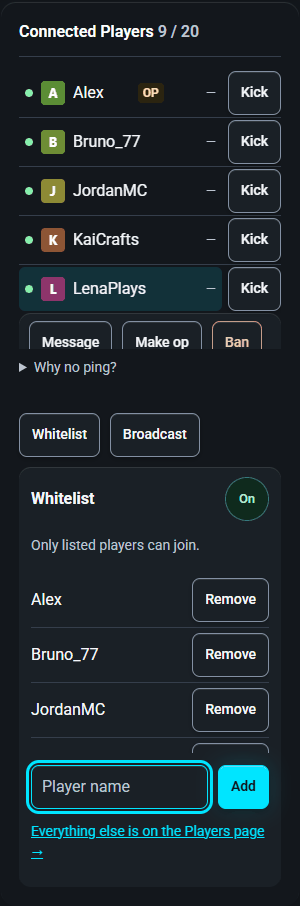
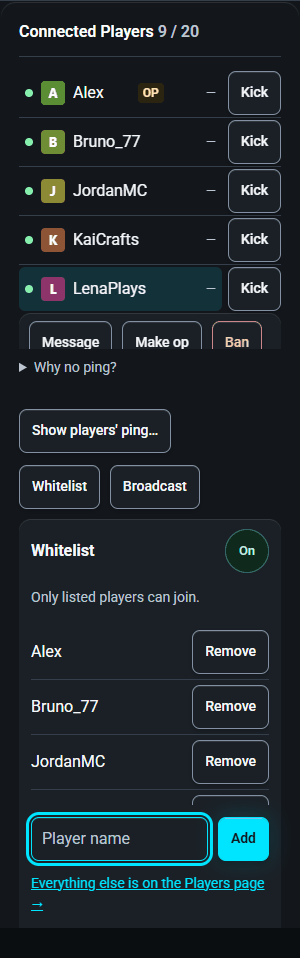
docs: manual, help, translations, changelog and tests for players' ping
Manual (Connected Players, Mods), Help, 16 new strings in the 9 catalogs (the
reasons with {version} and {loader} now translate: the page matches them back to
their text), 0.31.0 changelog, TODO 47 ticked, real-world tests 1056-1060, the
demo shows ping numbers on a Fabric example server once Show players' ping… is
on, a retaken connected-players picture. The old "never adds a mod or plugin"
reason is retired: a roster without a reason says the vanilla one.

diff --git a/src/craft_conductor/webui/app.js b/src/craft_conductor/webui/app.js
@@ -2202,6 +2202,20 @@ const OP_WORDS = { 1: "can ignore spawn protection", 2: "can use cheat commands 
   3: "can also kick, ban and op players", 4: "can use every command, including /stop" };
 const PING_MARK = { good: "●", fair: "◐", poor: "▲" };  // (a different shape for each, so colour is never the only sign)
 const PING_WORDS = { good: "good connection", fair: "fair connection", poor: "poor connection" };
+// The reasons the server fills in ("needs Minecraft 1.17", "doesn't run on neoforge") are matched back to
+// their text with the {placeholder}, so they translate; every other reason is its own text.
+const PING_REASONS = [
+  [/^Craft Conductor's ping helper needs Minecraft (\S+) or newer on this server type\.$/, "Craft Conductor's ping helper needs Minecraft {version} or newer on this server type.", "{version}"],
+  [/^Craft Conductor's ping helper doesn't run on (.+) yet\.$/, "Craft Conductor's ping helper doesn't run on {loader} yet.", "{loader}"],
+];
+function pingReason(text) {
+  for (const [re, key, slot] of PING_REASONS) {
+    const m = re.exec(text);
+    if (m) return t(key).replace(slot, () => m[1]);
+  }
+  return t(text);
+}
+
 function playersCard(con) {
   const viewer = !can("players.moderate");   // look only: the list, none of the buttons
   const canMessage = can("console.execute");   // (Message types a console command)
@@ -2308,7 +2322,7 @@ function playersCard(con) {
     row.ping.className = "ping " + (ms === null ? "none" : p.ping_state);
     if (ms === null) {
       const why = info && !info.ping.available ? info.ping.reason : "";
-      row.ping.title = t(why);
+      row.ping.title = pingReason(why);
       fill(row.ping, "—", h("span", { class: "sr-only" }, why ? t("Ping isn't available.") : t("Ping not read yet.")));
     } else {
       row.ping.title = t(PING_WORDS[p.ping_state]);
@@ -2350,7 +2364,7 @@ function playersCard(con) {
     empty.classList.toggle("hidden", !!names.length);
     const noPing = names.length && info && !info.ping.available;
     pingNote.classList.toggle("hidden", !noPing);
-    if (noPing) pingWhy.textContent = t(info.ping.reason);
+    if (noPing) pingWhy.textContent = pingReason(info.ping.reason);
     showPingSwitch();
     if (!names.length) selected = null;
   };
@@ -6272,6 +6286,7 @@ const HELP = [
     h("p", {}, "Press ", h("strong", {}, "Start"), " when you want to play. In Minecraft, choose Multiplayer → Add Server and use this computer's address."),
     screenshot("dashboard", "A running server's Dashboard: how busy it is, who's on, and the live console."),
     h("p", {}, "The Dashboard's Connected Players card lists who's on. Press a player for more actions, press Kick to remove them, and use Whitelist and Broadcast under the list to manage who may join and to send a message to everyone online."),
+    h("p", {}, "On Paper, Purpur, Fabric and Quilt servers, ", h("strong", {}, "Show players' ping…"), " on the card adds each player's ping: Craft Conductor puts its own small helper on the server at the next restart, and players install nothing."),
     h("p", {}, "Something not working? Press ", h("strong", {}, "🩺 Check my setup"), " on the server's Dashboard: it checks the usual causes ",
       "(Java, memory, disk space, the port, the firewall) and says what to do. ", h("strong", {}, "Test from the internet"), " there checks friends outside your home can connect."),
     screenshot("check-my-setup", "Check my setup: each check with what to do, and a button where Craft Conductor can fix it."),

diff --git a/site/demo/app/sim/routes-server.js b/site/demo/app/sim/routes-server.js
@@ -15,6 +15,15 @@
   // Turning the whitelist off on a server that can be reached from the internet asks first (since 0.29,
   // reach.py). A release from before has no such warning: there, as it did then, the whitelist just goes off.
   const whitelistGuarded = (s) => cat().hasReach() && sim.reachable(s);
+  // The Connected Players card's ping: numbers on a server that can run the helper and has Show players' ping…
+  // switched on (while it runs), else the reason and which button the card may offer.
+  const pingCard = (s) => {
+    const h = sim.pingHelper(s), on = !!s.settings.player_ping;
+    if (!h.ok) return { available: false, reason: h.reason, can_turn_on: false, on };
+    if (!on) return { available: false, reason: "Ping is off for this server.", can_turn_on: true, on: false };
+    return running(s) ? { available: true, reason: "", can_turn_on: false, on: true }
+      : { available: false, reason: "Ping shows after the next restart.", can_turn_on: false, on: true };
+  };
 
   // ------------------------------------------------------------- the Dashboard
   const resources = (s) => {
@@ -532,9 +541,11 @@
         const op = p.ops.find((o) => o.name === name);
         return { name, op: !!op, op_level: op ? op.level : null, ping_ms: null, ping_state: null };
       }), max: s.max_players, whitelist_enabled: p.whitelist_enabled,
-      ping: s.settings.player_ping
-        ? { available: false, reason: "Ping shows after the next restart.", can_turn_on: false, on: true }   // (the demo never restarts a helper in)
-        : { available: false, reason: "Ping is off for this server.", can_turn_on: true, on: false } };
+      ping: pingCard(s) };
+      if (out.ping.available) out.players.forEach((p) => {   // (the helper is "in" at once: the demo has no restart to wait for)
+        p.ping_ms = sim.pingOf(p.name, now());
+        p.ping_state = p.ping_ms < 100 ? "good" : p.ping_ms < 200 ? "fair" : "poor";
+      });
       if (r.q.whitelist === "1") out.whitelist = p.whitelist.slice().sort((a, b) => a.toLowerCase().localeCompare(b.toLowerCase()));
       return out;
     },

diff --git a/site/demo/app/sim/engine.js b/site/demo/app/sim/engine.js
@@ -51,6 +51,27 @@
   };
   sim.hasMod = (s, slug) => s.mods.some((m) => m.slug === slug);
 
+  // Craft Conductor Ping, the helper behind players' ping (pinghelper.py): which servers can run it, why not,
+  // and the file it would put in the mods (or plugins) folder. The reasons are the real ones, word for word.
+  const atLeast = (version, lowest) => {
+    const a = String(version).split(".").map(Number), b = lowest.split(".").map(Number);
+    for (let i = 0; i < Math.max(a.length, b.length); i++) { if ((a[i] || 0) !== (b[i] || 0)) return (a[i] || 0) > (b[i] || 0); }
+    return true;
+  };
+  sim.pingHelper = (s) => {
+    const lowest = { paper: "1.17", purpur: "1.17", fabric: "1.20.2", quilt: "1.20.2" }[s.loader];
+    if (lowest && atLeast(s.minecraft, lowest)) return { ok: true, reason: "", jar: `craft_conductor_ping-${s.loader === "paper" || s.loader === "purpur" ? "paper" : "fabric"}-1.0.0.jar` };
+    if (s.loader === "vanilla") return { ok: false, reason: "Minecraft doesn't share each player's ping without a mod or plugin, and plain Minecraft runs neither." };
+    if (!lowest && sim.catalog.runsMods(s.loader)) return { ok: false, reason: `Craft Conductor's ping helper doesn't run on ${s.loader} yet.` };
+    return { ok: false, reason: `Craft Conductor's ping helper needs Minecraft ${lowest} or newer on this server type.` };
+  };
+  // A made-up but steady ping for a player: the same name gives about the same number, drifting a little.
+  sim.pingOf = (name, t) => {
+    let h = 0;
+    for (const ch of name) h = (h * 31 + ch.charCodeAt(0)) % 997;
+    return Math.max(8, Math.round(28 + (h % 150) + Math.sin(t / 9 + h) * 6));
+  };
+
   // ------------------------------------------------------------- the two ways to start
   const FRIENDS = ["Alex", "Mia", "KaiCrafts", "Sam_Builds", "JordanMC", "Riley", "Noor", "LenaPlays", "Bruno_77"];
   sim.FRIENDS = FRIENDS;

diff --git a/site/demo/app/sim/routes-mods.js b/site/demo/app/sim/routes-mods.js
@@ -25,7 +25,8 @@
         dependency_of: keyOf(m), for_players: s.client.mods.includes(d.slug) ? d.slug : null })) })),
     players_mods: s.client.mods.slice(),
     held: Object.fromEntries(s.mods.filter((m) => m.pinned).map((m) => [keyOf(m), { version: m.pinned, number: m.version }])),
-    skipped: [], unmanaged: s.mods.filter((m) => m.manual).map((m) => m.filename), disabled: s.disabledJars || [], helper: null, known_conflicts: [],
+    skipped: [], unmanaged: s.mods.filter((m) => m.manual).map((m) => m.filename), disabled: s.disabledJars || [],
+    helper: s.settings.player_ping && sim.pingHelper(s).ok ? { name: "Craft Conductor Ping", filename: sim.pingHelper(s).jar } : null, known_conflicts: [],
     players_only: (s.playersOnly || []).slice(),
   });
   // Adding a mod: it needs a build for this server's Minecraft and server type, and the mods it

diff --git a/tests/test_website_demo_contract.py b/tests/test_website_demo_contract.py
@@ -216,3 +216,37 @@ def test_the_demo_survives_a_visit(catalog):
             assert not demo.unhandled, demo.unhandled
         finally:
             demo.close()
+
+
+@needs_node
+def test_the_demo_shows_players_ping_when_it_is_switched_on(catalog):
+    """A Fabric example server shows ping numbers once Show players' ping… is on (its reasons before, the
+    real texts); NeoForge says it doesn't run there yet; Manage Mods lists the helper."""
+    demo = Demo(catalog, "existing")
+    try:
+        sid = "family-survival"
+        card = demo.ask("GET", f"/api/servers/{sid}/players/online")[1]
+        assert card["players"] and card["ping"] == {"available": False, "reason": "Ping is off for this server.",
+                                                    "can_turn_on": True, "on": False}
+        assert demo.ask("GET", f"/api/servers/{sid}/mods")[1]["helper"] is None
+        assert demo.ask("POST", f"/api/servers/{sid}/settings", {"player_ping": True})[0] == 200
+        card = demo.ask("GET", f"/api/servers/{sid}/players/online", advance=3)[1]
+        assert card["ping"] == {"available": True, "reason": "", "can_turn_on": False, "on": True}
+        assert all(isinstance(p["ping_ms"], int) and p["ping_state"] in ("good", "fair", "poor") for p in card["players"])
+        assert demo.ask("GET", f"/api/servers/{sid}/mods")[1]["helper"] == {
+            "name": "Craft Conductor Ping", "filename": "craft_conductor_ping-fabric-1.0.0.jar"}
+        assert not demo.unhandled, demo.unhandled
+    finally:
+        demo.close()
+    demo = Demo(catalog, "new")   # (other server types give their reason and no button)
+    try:
+        for loader, why in (("vanilla", "Minecraft doesn't share each player's ping without a mod or plugin, and plain Minecraft runs neither."),
+                            ("neoforge", "Craft Conductor's ping helper doesn't run on neoforge yet.")):
+            s, r = demo.ask("POST", "/api/hub/create", {"loader": loader, "minecraft": "1.21.1", "motd": loader, "mods": [],
+                                                         "accept_eula": True, "port": 25565 if loader == "vanilla" else 25566})
+            assert s == 200, r
+            assert demo.ask("GET", f"/api/servers/{r['id']}/players/online", advance=10)[1]["ping"] == {
+                "available": False, "reason": why, "can_turn_on": False, "on": False}
+        assert not demo.unhandled, demo.unhandled
+    finally:
+        demo.close()

diff --git a/src/craft_conductor/players.py b/src/craft_conductor/players.py
@@ -22,6 +22,7 @@ from pathlib import Path
 from typing import Callable
 
 from .http import HttpClient, HttpError
+from .pinghelper import VANILLA_REASON   # (why there is no ping, when nothing says more: pinghelper.card gives the real reason)
 from .properties import read_properties, write_properties
 
 MOJANG_PROFILE = "https://api.mojang.com/users/profiles/minecraft"
@@ -87,10 +88,6 @@ class PlayerError(Exception):
 #: The most a broadcast may say (Minecraft's chat box takes 256 characters).
 MAX_BROADCAST = 256
 
-#: Why there is no ping to show, when nothing says more. No server type Craft Conductor runs shares each
-#: player's ping with the console on its own; the helper mod or plugin that does (pinghelper.py) is
-#: added only where the owner turned it on, and ``roster(why_no_ping=...)`` gives the real reason.
-NO_PING_REASON = "Minecraft doesn't share each player's ping with the server console, so Craft Conductor can't show it. (It never adds a mod or plugin only to measure it.)"  # (one piece: it is a key of the page's translations)
 GOOD_PING, FAIR_PING = 100, 200   # milliseconds: under 100 is good, under 200 fair, above poor
 
 
@@ -273,7 +270,7 @@ class Players:
         }
 
     def roster(self, online: set[str] | list[str], pings: dict[str, int] | None = None,
-               whitelist: bool = False, why_no_ping: str = NO_PING_REASON) -> dict:
+               whitelist: bool = False, why_no_ping: str = VANILLA_REASON) -> dict:
         """The Dashboard's Connected Players card: who is online, with only what is reliably known
         about each (operator, and at which level, from ops.json; ping when ``pings`` has a source),
         the player limit and whether the whitelist is on. Reads two small files and asks the

diff --git a/tests/test_players.py b/tests/test_players.py
@@ -2,8 +2,9 @@ import json
 
 import pytest
 
-from craft_conductor.players import (MAX_BROADCAST, MOJANG_PROFILE, NO_PING_REASON, PlayerError, Players, broadcast_text,
+from craft_conductor.players import (MAX_BROADCAST, MOJANG_PROFILE, PlayerError, Players, broadcast_text,
                                      offline_uuid, ping_state)
+from craft_conductor.pinghelper import VANILLA_REASON as NO_PING_REASON   # (what a roster says without a reason)
 
 
 

diff --git a/src/craft_conductor/webui/manual.md b/src/craft_conductor/webui/manual.md
@@ -190,7 +190,9 @@ The **Connected Players** card on the Dashboard is a compact way to look after w
 
 - **Press a row** to open the other actions: **Message** (a private message to that player; it types a console command, so only for those who may type console commands), **Make op** / **Remove op**, **Ban** and **More…** (the Players page). Press the row again, or press Escape, to close them. **Kick** asks first, like the other risky buttons, and has **Don't ask me again**.
 - **Role badges** show only what Craft Conductor can tell for sure. **OP** is an operator from the server's `ops.json`; when the level isn't the usual 4 it says so (**OP 2**), and hovering over it says what that level can do. Nothing else is guessed: there's no MOD or group badge, because groups from a permissions plugin such as LuckPerms live in the plugin's own database, which can't be read reliably (or cheaply) from outside while the server runs. There's no "you" badge either, because Craft Conductor doesn't know which Minecraft account is yours.
-- **Ping** is shown, in milliseconds with a word (good under 100, fair under 200, poor above) and a different mark for each, only when the server can tell it. None of the server types Craft Conductor runs shares each player's ping with the console by itself, so today it shows **—** with the reason in its tooltip (and under **Why no ping?** below the list, for touch screens). Craft Conductor doesn't add a mod or plugin to your server only to measure it.
+- **Ping** is shown, in milliseconds with a word (good under 100, fair under 200, poor above) and a different mark for each, once the server can tell it. Minecraft doesn't share each player's ping with anything outside the server, so until you switch it on the card shows **—** with the reason in its tooltip (and under **Why no ping?** below the list, for touch screens).
+- **Show players' ping…** (under the list; for people who may manage mods) switches it on for this server only. It asks first, saying what is added: a small helper of Craft Conductor's own, a plugin on Paper and Purpur or a mod on Fabric and Quilt, that only runs on the server. **Turn on** adds it the next time the server starts (the card says "Ping shows after the next restart.", then "Waiting for the server to report ping…" for a moment once it's running), and from then on the numbers follow every few seconds. Players install nothing and join exactly as before, with plain Minecraft or a modpack. The helper only reads each player's ping and writes it to one small file in the server's folder for Craft Conductor to read; it opens no port, adds no commands and doesn't fill the console. Craft Conductor never adds it to a server you didn't switch it on for. **Stop showing ping** (it asks first) takes it off the server again at the next restart, and the card goes back to **—**.
+- **Which servers:** Paper and Purpur on Minecraft 1.17 or newer, and Fabric and Quilt on Minecraft 1.20.2 or newer. A server of another kind says why on the card: a Vanilla server can't run mods or plugins ("Minecraft doesn't share each player's ping without a mod or plugin, and plain Minecraft runs neither."), a server with an older Minecraft says which version it needs, and NeoForge and Forge say "doesn't run on … yet" (they are next). The helper is listed in **Manage Mods** (or **Plugins**) as **Craft Conductor Ping** with "Craft Conductor's own: shows players' ping"; it has no **Change version** or **Remove**, because **Stop showing ping** does that, and it isn't counted as one of your mods or as a file you added by hand. A newer Craft Conductor brings a newer helper by itself at the next start.
 - **Whitelist** (under the list) opens a small panel: whether the whitelist is on, a switch to turn it on or off, the names on it with **Remove**, and a box to **Add** a name (1 to 16 letters, numbers or `_`, the same check as on the Players page). **Everything else is on the Players page →** links there.
 - **Broadcast** sends a message to everyone online with the server's `say` command, up to 256 characters, in one line: line breaks and control characters are refused, like in the Console. It appears in the console above.
 - **Live:** the list follows joins and leaves within a few seconds, and roles and ping are read every few seconds with one light request for the whole list, not one per player. Rows are updated in place, so the open actions, the keyboard focus, the scroll position and the heads stay put. A screen reader hears who joined or left once, politely ("Mia joined."), not on every refresh.
@@ -244,6 +246,8 @@ A Vanilla server can't run mods, so it has no Mods page (it's back once the serv
 After every change, Craft Conductor looks inside the mod files, the way Fabric, Forge and NeoForge do before Minecraft starts, and checks that each mod has the other mods, and the versions of them, it says it needs, on the server and on players' computers. It takes what the loader takes: NeoForge and Forge on Minecraft 1.21.1 also load mods made for 1.21 (Just Enough Items for 1.21.1 says so), and Craft Conductor counts them as fine there too. When one wouldn't start, **Manage Mods** glows and opens on that mod: its row is red, says what's wrong, and offers a version that works when Craft Conductor finds one ("Use Iris 1.10.9"), besides **Change version** and **Remove**. An update whose mods wouldn't start together isn't installed: the server keeps the mods it has and keeps running, and the update says which mod needs what.
 
 **Mods only players run.** Some mods only run on players' computers (shaders, minimaps, menus) and can stop a server. Craft Conductor leaves them off the server when it can tell: Modrinth says so, a CurseForge mod is the same as one Modrinth says so about (found by its file, or its name), or a mod's own file says it needs another mod on players' computers only (Iris Search needs Iris there, and Iris needs Sodium). Such a mod is listed in **Manage Mods** as not installed, with the reason, and goes in your friends' download instead, so players still get it (with the mods it needs). When one Craft Conductor couldn't tell about stops the server, the Dashboard says it only runs on players' computers and offers **Move … to players' mods**: it comes off the server (even when a server mod lists it as required) and stays in your friends' download. A mod file of your own (one Modrinth and CurseForge don't know) gets the same: **Move … to players' mods** puts it with your own files in **Friends → players' mods**, or **Switch … off** keeps it on the server, switched off. **Move to players' mods** and **Put back on the server** in **Manage Mods** do the same by hand. A file of your own moved to players' mods has **Put back on the server** in **Manage Friends Mods**: it goes back to the server's mods folder (from its next start) and out of the friends' download.
+
+**Craft Conductor Ping:** when you've switched on players' ping (**Show players' ping…** on the Dashboard's **Connected Players** card, see above), **Manage Mods** (or **Plugins**) shows one extra row for Craft Conductor's own helper. It has no **Change version**, **Switch off** or **Remove**: **Stop showing ping** on the Dashboard takes it out at the next restart. It isn't counted among your mods and isn't checked as one of them.
 
 **Known conflicts:** when other people found that mods on this page don't work together (on the same loader and Minecraft version), a warning says which, and how many people reported it. It comes from Craft Conductor's shared list of mod conflicts (see Craft Conductor settings → Connections → Mod conflicts). If your server starts fine, you can ignore it.
 

diff --git a/CHANGELOG.md b/CHANGELOG.md
@@ -4,6 +4,11 @@ What changed in each version of craft-conductor, newest first. Bugs are listed t
 them. Found a new one? [Report it](https://github.com/silverWRX03/craft-conductor/issues/new/choose);
 its fix will say which version it's in.
 
+## 0.31.0 (not released yet)
+
+**Added**
+- **Players' ping** on the **Connected Players** card (roadmap 47). The card showed **—** for everyone because Minecraft doesn't hand each player's ping to anything outside the server. Now **Show players' ping…** (for people who may manage mods) switches on a small helper of Craft Conductor's own, a plugin on Paper and Purpur (Minecraft 1.17 or newer) or a mod on Fabric and Quilt (1.20.2 or newer), that is put on that server at its next restart and passes each player's ping on. The numbers then show with the same good, fair and poor colours and words. It asks first, only that server gets it, and **Stop showing ping** takes it off again. Players install nothing. **Manage Mods** lists it as **Craft Conductor Ping** (Craft Conductor's own), with no **Change version** or **Remove**, and it doesn't count as one of your mods. Vanilla servers say why there is no ping, and NeoForge and Forge say they're next.
+
 ## 0.30.6 (2026-11-15)
 
 **Added**

diff --git a/TODO.md b/TODO.md
@@ -267,8 +267,8 @@ Added 2026-10-16 (briefs in "Additional requests (2026-10-16)" below; numbering 
 44. [ ] **Modded server helper:** after the first server, a helper for building a server with mods.
 45. [ ] **Easier server scheduling.**
 46. [ ] **Research: wake on request:** a stopped server starts when a player tries to join.
-47. [ ] **Ping:** a mod or plugin of our own that reports players' ping, or a suggested one
-        (follows up 34).
+47. [x] **Ping:** a mod or plugin of our own that reports players' ping, or a suggested one
+        (follows up 34). Paper, Purpur, Fabric and Quilt; NeoForge and Forge next.
 48. [ ] **Manual CurseForge downloads picked up by themselves:** found where the browser saved them
         and added to the pack; if they aren't there, ask where they are.
 49. [ ] **Modpack download screen:** a progress bar that holds the page while a modpack downloads,
